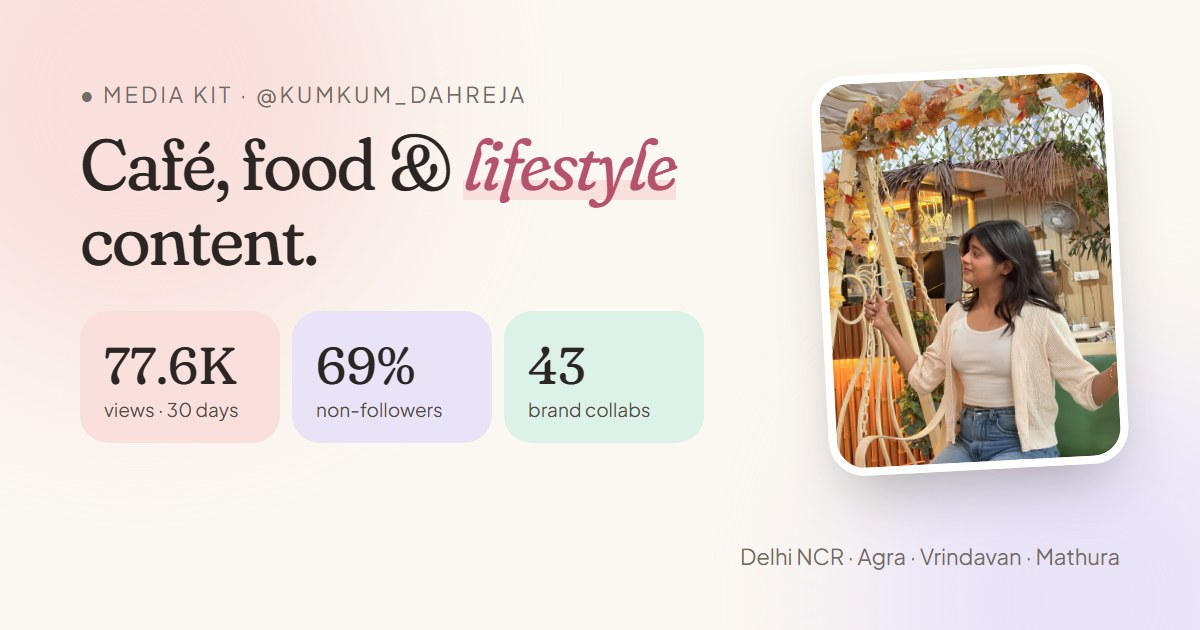
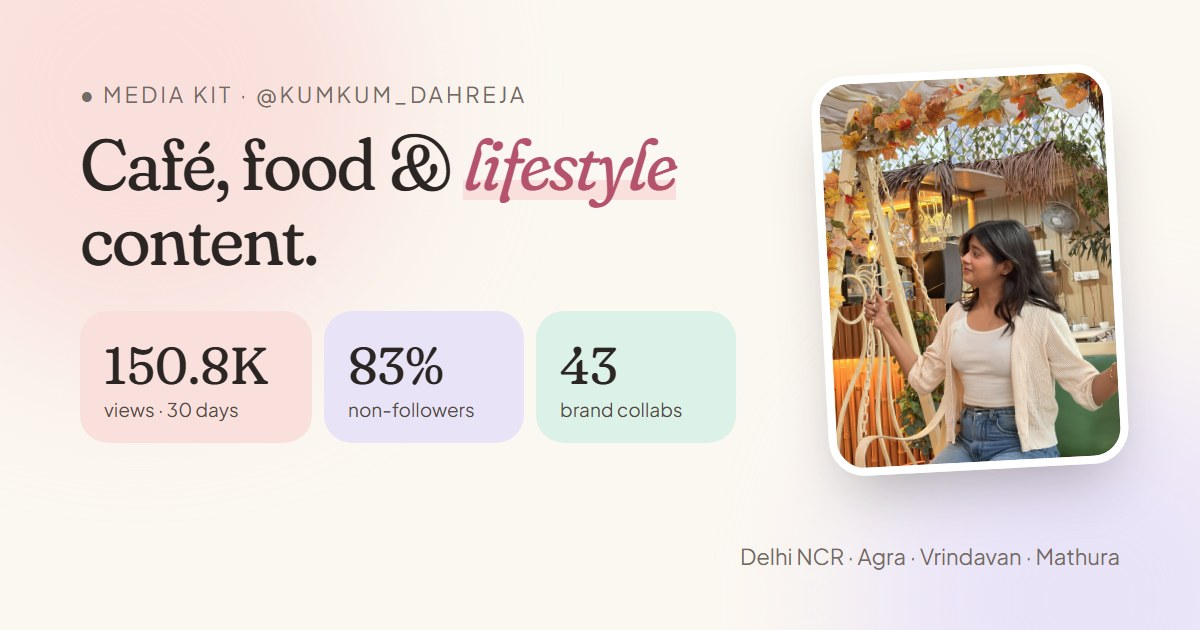
Update media kit with 22 Oct – 22 Nov 2026 Instagram stats
New numbers from the Instagram dashboard: 150.8K views, 93.2K viewers,
797 followers, refreshed top reels and audience breakdown. Share preview
image and alt text now show 150.8K views and 83% non-followers.

Changed region(s): [[0.0925, 0.5127, 0.4008, 0.6937], [0.4317, 0.4825, 0.6167, 0.7238]]

diff --git a/src/data/mediakit.ts b/src/data/mediakit.ts
@@ -2,52 +2,57 @@
 // This file is the fallback used until Supabase is connected; after that,
 // update the numbers from /admin/media-kit.
 export const mediakit = {
-  period: "21 Oct – 21 Nov 2026",
-  views: 77617,
-  viewsDelta: 65.2,
-  reach: 30307,
-  reachDelta: 78.3,
-  followers: 799,
-  followersDelta: 3.6,
-  profileVisits: 2451,
-  linkTaps: 41,
-  followerViews: 24041,
-  nonFollowerViews: 53177,
+  period: "22 Oct – 22 Nov 2026",
+  views: 150843,
+  viewsDelta: 148.9,
+  reach: 93172,
+  reachDelta: 320.6,
+  followers: 797,
+  followersDelta: 3.4,
+  profileVisits: 2596,
+  linkTaps: 42,
+  followerViews: 26142,
+  nonFollowerViews: 124276,
   formats: [
-    { label: "Reels", views: 53300, interactions: 2400 },
-    { label: "Stories", views: 14500, interactions: 798 },
-    { label: "Posts", views: 9300, interactions: 331 },
+    { label: "Reels", views: 55800, interactions: 2500 },
+    { label: "Stories", views: 14900, interactions: 815 },
+    { label: "Posts", views: 10500, interactions: 406 },
   ],
-  topReels: [109000, 14100, 12200, 6200, 5900, 3900], // views, last 180 days
+  topReels: [109000, 71000, 12200, 6300, 3900, 3600], // views, last 180 days
   audience: {
     gender: [
       { label: "Men", value: 65 },
-      { label: "Women", value: 34 },
+      { label: "Women", value: 35 },
     ],
     age: [
       { label: "13–17", value: 2.8 },
-      { label: "18–24", value: 39.6 },
-      { label: "25–34", value: 42.4 },
-      { label: "35–44", value: 9.4 },
+      { label: "18–24", value: 39.3 },
+      { label: "25–34", value: 42.3 },
+      { label: "35–44", value: 9.7 },
       { label: "45–54", value: 3.7 },
-      { label: "55+", value: 2.2 },
+      { label: "55–64", value: 1.1 },
+      { label: "65+", value: 1.1 },
     ],
     cities: [
-      { label: "Delhi", value: 7.5 },
-      { label: "Vrindavan", value: 6.4 },
+      { label: "Mathura", value: 6.9 },
+      { label: "Vrindavan", value: 6.9 },
+      { label: "Delhi", value: 6.9 },
       { label: "Agra", value: 6.4 },
-      { label: "Greater Noida", value: 6.4 },
-      { label: "Mathura", value: 6.2 },
+      { label: "Greater Noida", value: 6.1 },
     ],
     languages: [
-      { label: "English", value: 50.1 },
-      { label: "Hindi", value: 47.1 },
+      { label: "English", value: 49.4 },
+      { label: "Hindi", value: 47.6 },
+      { label: "Bengali", value: 1.0 },
       { label: "Gujarati", value: 1.0 },
+      { label: "Marathi", value: 0.3 },
     ],
     countries: [
-      { label: "India", value: 95.5 },
+      { label: "India", value: 95.6 },
       { label: "USA", value: 0.9 },
       { label: "Pakistan", value: 0.9 },
+      { label: "Bangladesh", value: 0.5 },
+      { label: "Saudi Arabia", value: 0.4 },
     ],
     activeHours: "6 – 9 PM",
     activeDays: ["Tue", "Wed", "Thu"],
@@ -62,7 +67,7 @@ export const mediakit = {
 
 export type MediaKit = typeof mediakit;
 
-/** 77617 -> "77.6K", 109000 -> "109K", 799 -> "799" */
+/** 150843 -> "150.8K", 109000 -> "109K", 799 -> "799" */
 export const compact = (n: number) => {
   if (n < 1000) return `${n}`;
   const k = Math.round(n / 100) / 10;
